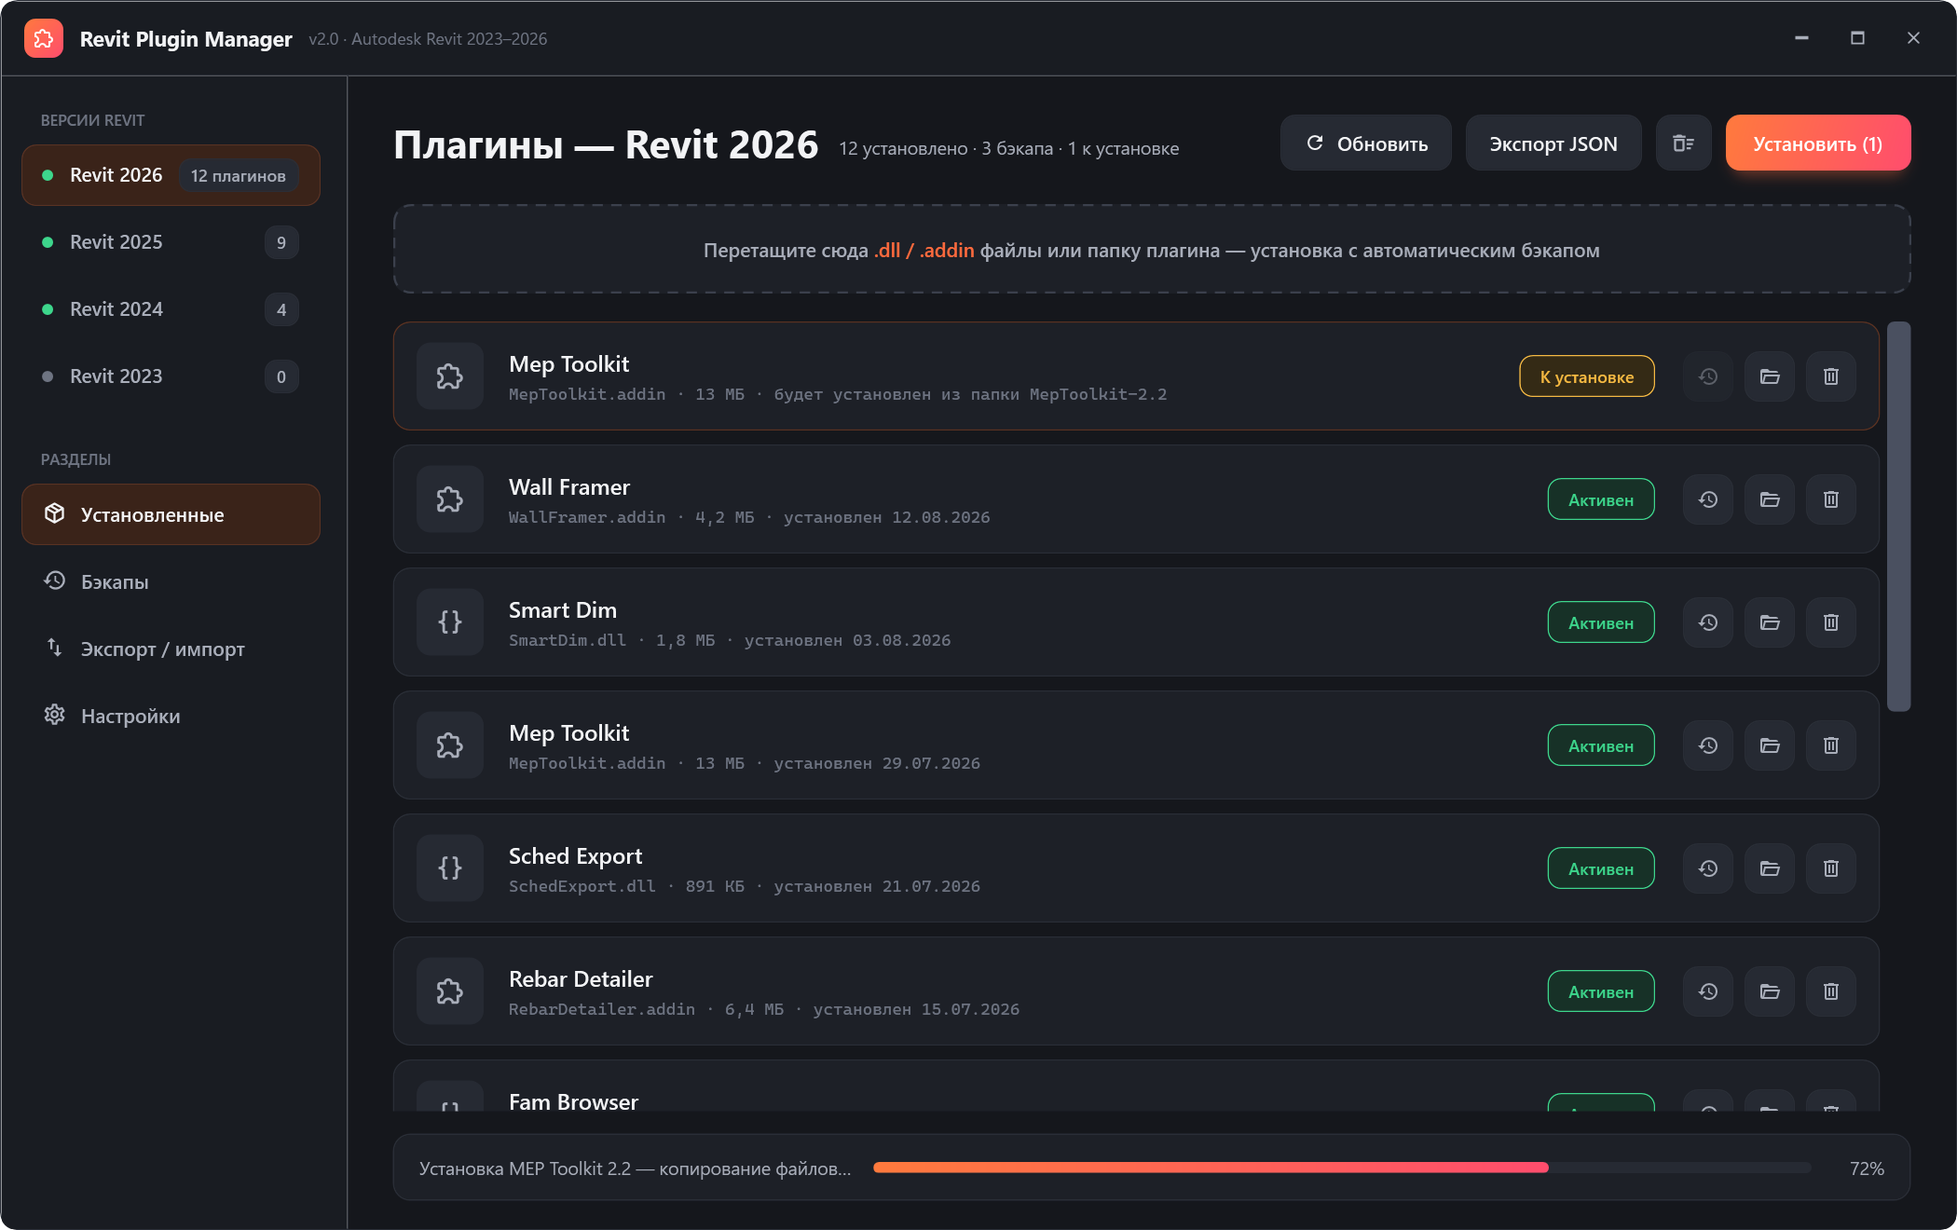
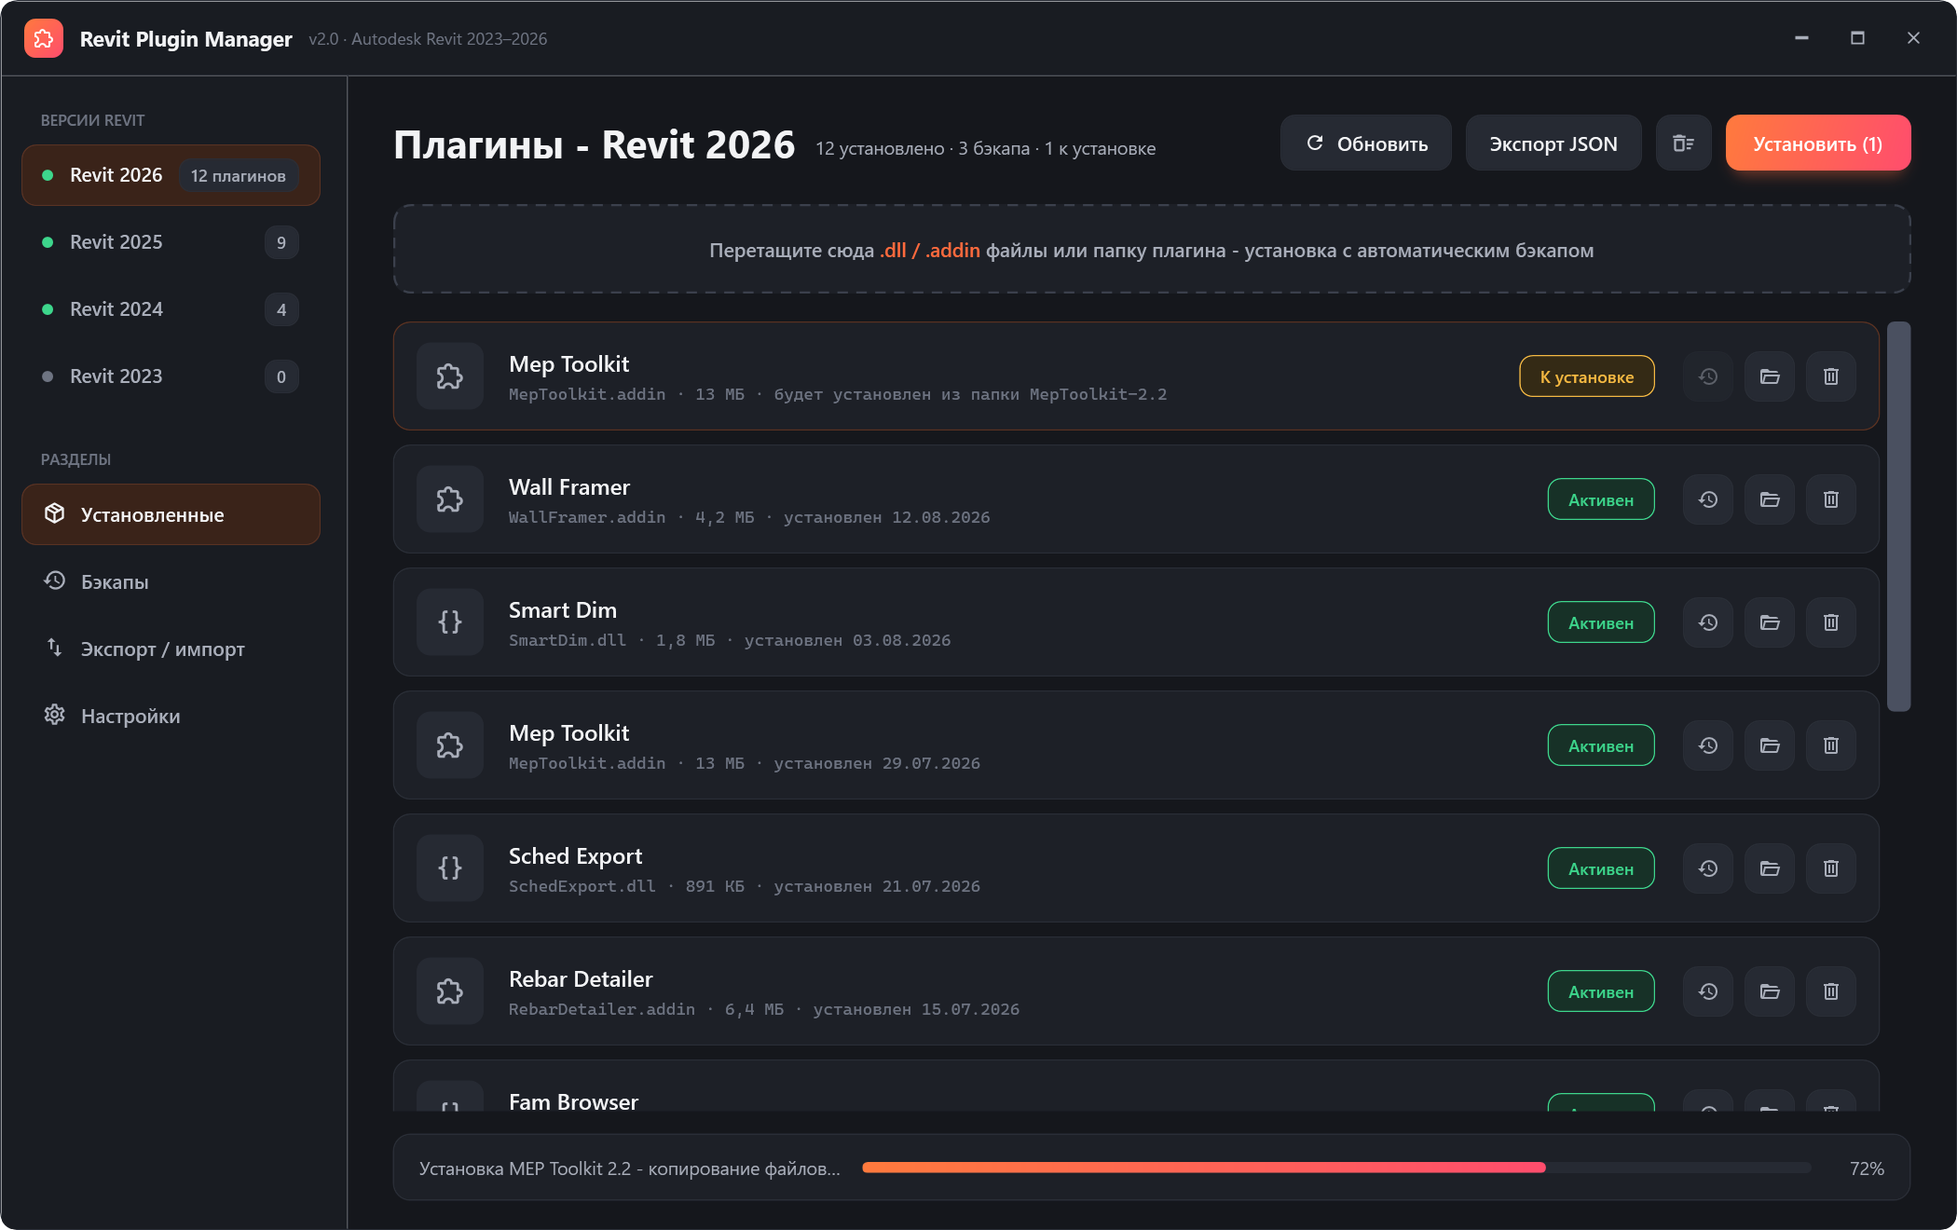
Убрать длинное тире из README и интерфейса, обновить скриншоты

Changed region(s): [[0.3714, 0.1864, 0.8048, 0.2174], [0.3095, 0.0932, 0.5881, 0.1553], [0.3405, 0.9318, 0.4333, 0.9629]]

diff --git a/RevitPluginInstaller/RevitPluginInstaller/Views/Pages/TransferPage.xaml b/RevitPluginInstaller/RevitPluginInstaller/Views/Pages/TransferPage.xaml
@@ -67,7 +67,7 @@
                     </Border>
                     <TextBlock Text="Импорт из JSON" FontSize="18" FontWeight="SemiBold" Margin="0,18,0,6" />
                     <TextBlock Style="{StaticResource SecondaryTextStyle}" TextWrapping="Wrap" TextTrimming="None"
-                               Text="Восстанавливает реестр из ранее экспортированного файла. Текущие записи будут заменены — перед импортом стоит сделать экспорт." />
+                               Text="Восстанавливает реестр из ранее экспортированного файла. Текущие записи будут заменены - перед импортом стоит сделать экспорт." />
 
                     <Border CornerRadius="10" Padding="14,12" Margin="0,18,0,0" Background="{DynamicResource App.WarningSoft}" BorderBrush="{DynamicResource App.Warning}" BorderThickness="1">
                         <StackPanel Orientation="Horizontal">

diff --git a/RevitPluginInstaller/RevitPluginInstaller/Views/Pages/DownloadPage.xaml b/RevitPluginInstaller/RevitPluginInstaller/Views/Pages/DownloadPage.xaml
@@ -58,7 +58,7 @@
                         <Grid>
                             <Rectangle RadiusX="12" RadiusY="12" Stroke="{DynamicResource App.BorderStrong}" StrokeThickness="1.5" StrokeDashArray="5 4" />
                             <TextBlock HorizontalAlignment="Center" VerticalAlignment="Center" Foreground="{DynamicResource App.TextSecondary}" FontSize="14" TextTrimming="None">
-                                <Run Text="Перетащите сюда " /><Run Text=".dll / .addin" Foreground="{DynamicResource App.Accent}" FontWeight="SemiBold" /><Run Text=" файлы или папку плагина — установка с автоматическим бэкапом" />
+                                <Run Text="Перетащите сюда " /><Run Text=".dll / .addin" Foreground="{DynamicResource App.Accent}" FontWeight="SemiBold" /><Run Text=" файлы или папку плагина - установка с автоматическим бэкапом" />
                             </TextBlock>
                         </Grid>
                     </Border>

diff --git a/RevitPluginInstaller/RevitPluginInstaller/ViewModels/Pages/DownloadViewModel.cs b/RevitPluginInstaller/RevitPluginInstaller/ViewModels/Pages/DownloadViewModel.cs
@@ -41,7 +41,7 @@ public class DownloadViewModel : ViewModel
         }
     }
 
-    public string Title => string.IsNullOrEmpty(Version) ? "Плагины" : $"Плагины — Revit {Version}";
+    public string Title => string.IsNullOrEmpty(Version) ? "Плагины" : $"Плагины - Revit {Version}";
 
     private string _summary = string.Empty;
     public string Summary
@@ -95,7 +95,7 @@ public class DownloadViewModel : ViewModel
         private set => Set(ref _isEmpty, value);
     }
 
-    public string DropHint => "Перетащите сюда .dll / .addin файлы или папку плагина — установка с автоматическим бэкапом";
+    public string DropHint => "Перетащите сюда .dll / .addin файлы или папку плагина - установка с автоматическим бэкапом";
 
     #endregion
 
@@ -256,12 +256,12 @@ public class DownloadViewModel : ViewModel
         {
             IsBusy = true;
             InstallationProgress = 0;
-            StatusText = $"Установка {count} {PluralFiles(count)} — копирование…";
+            StatusText = $"Установка {count} {PluralFiles(count)} - копирование…";
 
             var progress = new Progress<int>(value =>
             {
                 InstallationProgress = value;
-                StatusText = $"Установка в Revit {Version} — копирование файлов… {value}%";
+                StatusText = $"Установка в Revit {Version} - копирование файлов… {value}%";
             });
 
             await _pluginService.InstallPluginsAsync(files, Version, progress);
@@ -272,7 +272,7 @@ public class DownloadViewModel : ViewModel
         catch (Exception ex)
         {
             await _logger.LogAsync($"[Error] Install failed: {ex}");
-            StatusText = "Ошибка установки — подробности в логе";
+            StatusText = "Ошибка установки - подробности в логе";
             MessageBox.Show(ex.Message, "Не удалось установить", MessageBoxButton.OK, MessageBoxImage.Error);
         }
         finally
@@ -323,7 +323,7 @@ public class DownloadViewModel : ViewModel
         catch (Exception ex)
         {
             await _logger.LogAsync($"[Error] Remove failed: {ex}");
-            StatusText = "Ошибка удаления — подробности в логе";
+            StatusText = "Ошибка удаления - подробности в логе";
             MessageBox.Show(ex.Message, "Не удалось удалить", MessageBoxButton.OK, MessageBoxImage.Error);
         }
         finally
@@ -358,7 +358,7 @@ public class DownloadViewModel : ViewModel
         catch (Exception ex)
         {
             await _logger.LogAsync($"[Error] Remove all failed: {ex}");
-            StatusText = "Ошибка удаления — подробности в логе";
+            StatusText = "Ошибка удаления - подробности в логе";
             MessageBox.Show(ex.Message, "Не удалось удалить", MessageBoxButton.OK, MessageBoxImage.Error);
         }
         finally
@@ -383,7 +383,7 @@ public class DownloadViewModel : ViewModel
         catch (Exception ex)
         {
             await _logger.LogAsync($"[Error] Backup failed: {ex}");
-            StatusText = "Ошибка бэкапа — подробности в логе";
+            StatusText = "Ошибка бэкапа - подробности в логе";
         }
         finally
         {

diff --git a/RevitPluginInstaller/RevitPluginInstaller.Screenshots/Program.cs b/RevitPluginInstaller/RevitPluginInstaller.Screenshots/Program.cs
@@ -67,11 +67,11 @@ internal static class Program
             {
                 await Idle(window);
 
-                // 1. Installed — with one queued file and an installation in flight
+                // 1. Installed - with one queued file and an installation in flight
                 var installed = (DownloadPage)window.MainFrame.Content;
                 installed.ViewModel.DropCommand.Execute(new DataObject(DataFormats.FileDrop, new[] { DemoData.PendingFile(demoRoot) }));
                 await Idle(window);
-                SimulateProgress(installed.ViewModel, "Установка MEP Toolkit 2.2 — копирование файлов…", 72);
+                SimulateProgress(installed.ViewModel, "Установка MEP Toolkit 2.2 - копирование файлов…", 72);
                 await Idle(window);
                 Capture(window, Path.Combine(outputDir, "01-installed.png"), scale);
 
@@ -218,7 +218,7 @@ internal static class DemoData
             }
         }
 
-        // Older, empty version folder — shows up in the sidebar with a zero counter
+        // Older, empty version folder - shows up in the sidebar with a zero counter
         Directory.CreateDirectory(Path.Combine(addins, "2023"));
 
         File.WriteAllText(Path.Combine(root, "plugins.json"),

diff --git a/RevitPluginInstaller/RevitPluginInstaller/ViewModels/Pages/TransferViewModel.cs b/RevitPluginInstaller/RevitPluginInstaller/ViewModels/Pages/TransferViewModel.cs
@@ -15,7 +15,7 @@ public class TransferViewModel : ViewModel
     private readonly ILoggerManager _logger;
 
     public string Title => "Экспорт / импорт";
-    public string Summary => "Список установленных плагинов в JSON — чтобы перенести набор на другую машину или восстановить после переустановки";
+    public string Summary => "Список установленных плагинов в JSON - чтобы перенести набор на другую машину или восстановить после переустановки";
 
     private int _pluginCount;
     public int PluginCount

diff --git a/RevitPluginInstaller/RevitPluginInstaller/ViewModels/Pages/SettingsViewModel.cs b/RevitPluginInstaller/RevitPluginInstaller/ViewModels/Pages/SettingsViewModel.cs
@@ -50,8 +50,8 @@ public class SettingsViewModel : ViewModel
         }
     }
 
-    public string LogPath => string.IsNullOrEmpty(RevitPath) ? "—" : Path.Combine(RevitPath, "RevitPluginInstaller.log");
-    public string RegistryPath => string.IsNullOrEmpty(RevitPath) ? "—" : Path.Combine(RevitPath, "plugins.json");
+    public string LogPath => string.IsNullOrEmpty(RevitPath) ? "-" : Path.Combine(RevitPath, "RevitPluginInstaller.log");
+    public string RegistryPath => string.IsNullOrEmpty(RevitPath) ? "-" : Path.Combine(RevitPath, "plugins.json");
     public string AppVersion { get; }
 
     public ICommand SelectFolderCommand { get; }

diff --git a/RevitPluginInstaller/RevitPluginInstaller/Utils/FileSizeFormatter.cs b/RevitPluginInstaller/RevitPluginInstaller/Utils/FileSizeFormatter.cs
@@ -10,7 +10,7 @@ public static class FileSizeFormatter
     public static string Format(long bytes)
     {
         if (bytes <= 0)
-            return "—";
+            return "-";
 
         double value = bytes;
         int unit = 0;

diff --git a/README.md b/README.md
@@ -8,7 +8,7 @@
 
 - Определяет установленные версии Revit по папке `Addins` и показывает их в боковой панели со счётчиком плагинов
 - Устанавливает плагины перетаскиванием файлов или папок в окно, либо через диалог выбора; очередь установки видна в списке до нажатия «Установить»
-- При установке поверх существующего плагина сначала делает бэкап, прогресс копирования — в строке состояния
+- При установке поверх существующего плагина сначала делает бэкап, прогресс копирования отображается в строке состояния
 - По каждому плагину: размер, дата установки, статус (активен / к установке / файл не найден), бэкап, открытие в проводнике, удаление с бэкапом
 - Раздел «Бэкапы»: список резервных копий с датой, составом и размером, открытие и удаление
 - Экспорт и импорт реестра плагинов в JSON
@@ -31,15 +31,15 @@ cd RevitPluginInstaller/RevitPluginInstaller
 dotnet run
 ```
 
-При первом запуске приложение откроет «Настройки»: укажите папку Revit с подпапкой `Addins` — оттуда читается список версий, туда же копируются плагины. Рядом с папкой появятся `plugins.json` (реестр), `backups` и лог.
+При первом запуске приложение откроет «Настройки»: укажите папку Revit с подпапкой `Addins`, оттуда читается список версий, туда же копируются плагины. Рядом с папкой появятся `plugins.json` (реестр), `backups` и лог.
 
 ## Как устроено
 
-- `Views/Windows/MainWindow` — окно без системной рамки: заголовок, сайдбар с версиями и разделами, `Frame` для страниц
-- `Views/Pages` — четыре раздела: установленные (`DownloadPage`), бэкапы, экспорт/импорт, настройки; каждая страница получает свою view-model через DI
-- `Services/PluginService` — установка, удаление, бэкапы, реестр `plugins.json`; событие `PluginsChanged` обновляет счётчики в сайдбаре
-- `Resources/Themes` — семантическая палитра (`App.Surface`, `App.Accent`, …) в двух вариантах, стили контролов используют только её
-- `RevitPluginInstaller.Screenshots` — вспомогательный проект, который поднимает окно с демо-данными вне экрана и рендерит PNG для этого README:
+- `Views/Windows/MainWindow`: окно без системной рамки, заголовок, сайдбар с версиями и разделами, `Frame` для страниц
+- `Views/Pages`: четыре раздела, установленные (`DownloadPage`), бэкапы, экспорт/импорт и настройки; каждая страница получает свою view-model через DI
+- `Services/PluginService`: установка, удаление, бэкапы, реестр `plugins.json`; событие `PluginsChanged` обновляет счётчики в сайдбаре
+- `Resources/Themes`: семантическая палитра (`App.Surface`, `App.Accent`, …) в двух вариантах, стили контролов используют только её
+- `RevitPluginInstaller.Screenshots`: вспомогательный проект, который поднимает окно с демо-данными вне экрана и рендерит PNG для этого README:
 
 ```bash
 cd RevitPluginInstaller
@@ -48,4 +48,4 @@ dotnet run --project RevitPluginInstaller.Screenshots -- ../docs/screenshots 1.5
 
 ## Статус
 
-Рабочий: установка, удаление (по одному и все разом), бэкапы, экспорт/импорт — проверены руками. Интерфейс дополнительно прогоняется офскрин-рендером из проекта скриншотов: все четыре раздела строятся и биндятся на демо-данных без ошибок привязок. Автотестов нет.
+Рабочий: установка, удаление (по одному и все разом), бэкапы и экспорт/импорт проверены руками. Интерфейс дополнительно прогоняется офскрин-рендером из проекта скриншотов: все четыре раздела строятся и биндятся на демо-данных без ошибок привязок. Автотестов нет.
